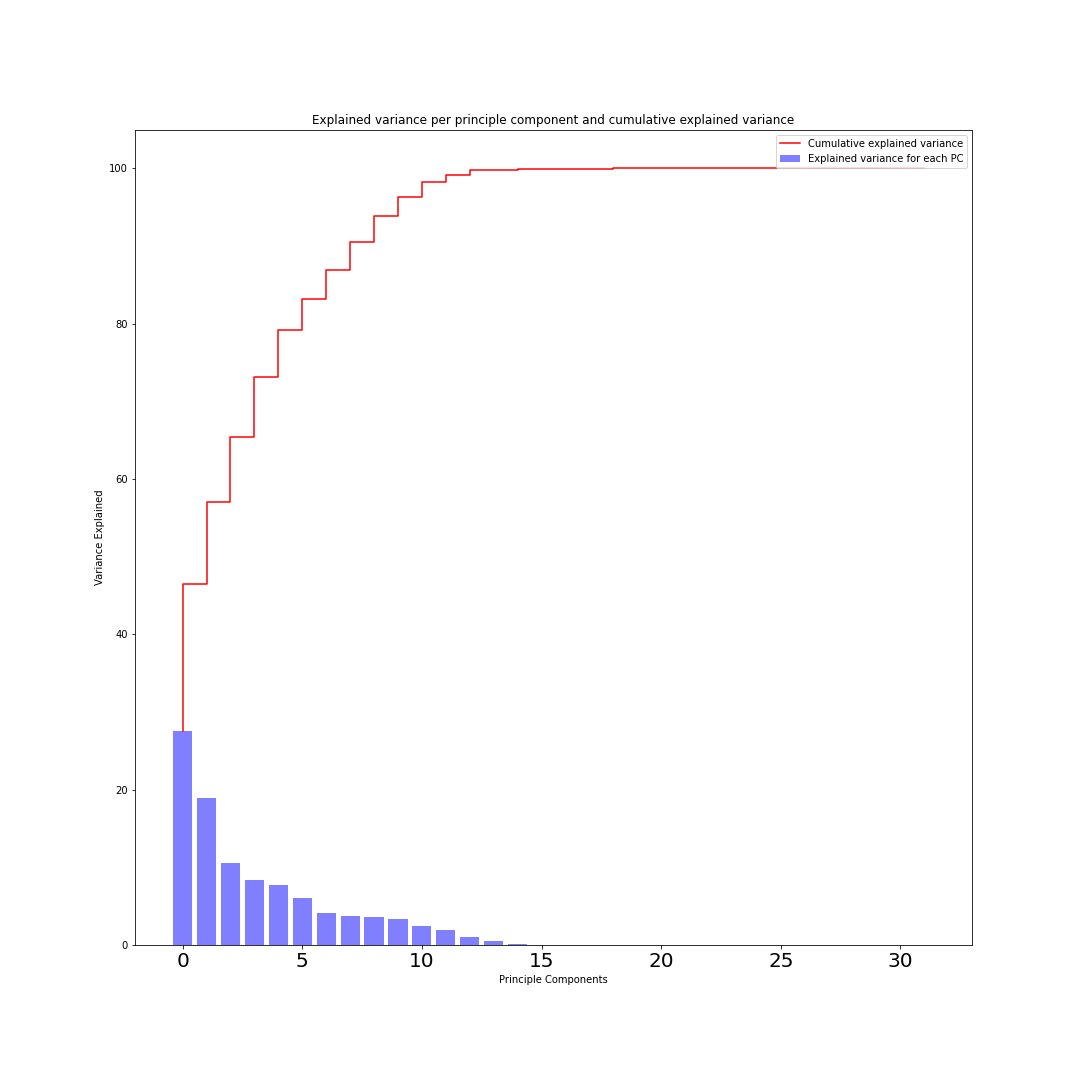
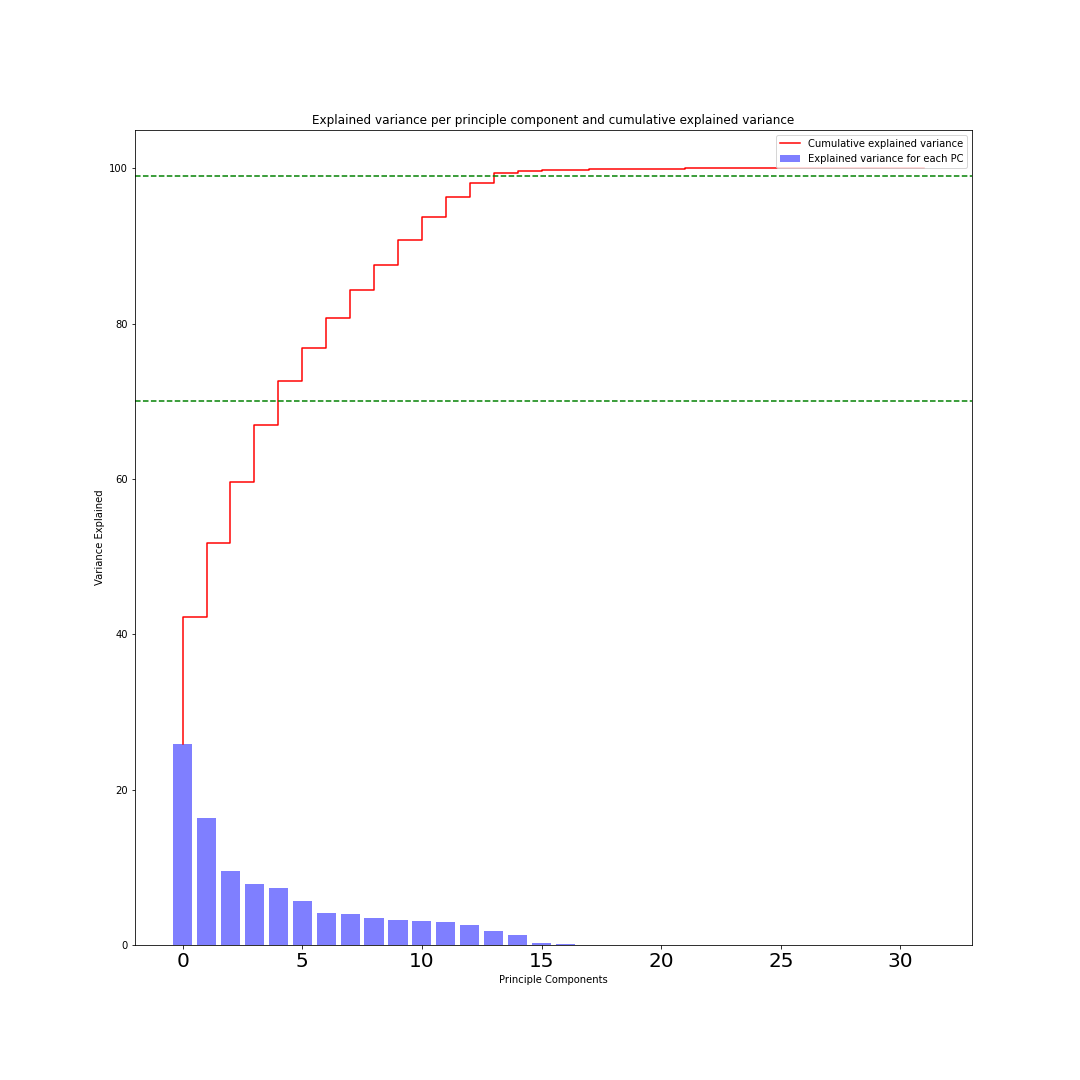
Var plots erin gezet, en variance bij plot labels toegevoegd

diff --git a/PCA (week 2&3)/AssignmentPCA.py b/PCA (week 2&3)/AssignmentPCA.py
@@ -366,7 +366,9 @@ class PCA:
         eig_vecs : Array
             Eigenvectors of the covariance matrix
             
-        cum_var_exp : 
+        cum_var_exp : list
+            List of the cumulative explained variance, with index 0
+            corresponding to the CMA of PC 1, index 1 of PC2, etc.
             
         """
         # Use the NumPy method to extract eigenvalues and eigenvectors
@@ -460,8 +462,8 @@ class PCA_plot():
                   label = str(self.targets[2]))
        
         plt.legend(loc='upper left')        
-        plt.xlabel('Principal Component 1')
-        plt.ylabel('Principal Component 2')
+        plt.xlabel(f'Principal Component 1 -- {self.var_exp[0]:.2f}% variance')
+        plt.ylabel(f'Principal Component 2 -- {self.var_exp[1]:.2f}% variance')
         plt.show()
     
     
@@ -497,9 +499,9 @@ class PCA_plot():
                     label = str(self.targets[2])) 
         
         ax.legend(loc='upper left')        
-        ax.set_xlabel('Principal Component 1')
-        ax.set_ylabel('Principal Component 2')
-        ax.set_zlabel('Principal Component 3')
+        ax.set_xlabel('Principal Component 1 -- {self.var_exp[0]:.2f}% variance')
+        ax.set_ylabel('Principal Component 2 -- {self.var_exp[1]:.2f}% variance')
+        ax.set_zlabel('Principal Component 3 -- {self.var_exp[2]:.2f}% variance')
         plt.show()
     
     def var_plot(self, var_exp, cum_var_exp, eigen_vals):
@@ -546,6 +548,9 @@ class PCA_plot():
         plt.step(range(len(self.cum_var_exp)), 
                  self.cum_var_exp, color='red',
                  label='Cumulative explained variance')
+        # Plot horizontal line at 70% and 99% expl. variance
+        plt.axhline(y = 70, color = 'g', linestyle = 'dashed')
+        plt.axhline(y = 99, color = 'g', linestyle = 'dashed')
         plt.xticks(fontsize=20)
         plt.legend(loc='best')
         plt.savefig('Varplot.png')
@@ -563,8 +568,8 @@ class PCA_plot():
         plt.savefig(plot_name)
     
     
-    def loading_plots_all_targets(variable_names_list, eig_vals_real, eig_vecs_real, PC=1, 
-                                    n_vars='All'):
+    def loading_plots_all_targets(variable_names_list, eig_vals_real, 
+                                  eig_vecs_real, PC=1, n_vars='All'):
         """
         Generates a loading plot of a predefined number of variables with
         the largest loading for a principle component of choice. Loadings 
@@ -600,16 +605,13 @@ class PCA_plot():
         Loading plot of a predefined number of variables with the largest
         loading for a principal component of choice.
         """
-        #print(f'\n{PC = }\n')
         # Select the correct data:
-        # print(f'{len(variable_names_list) = }') 
-        #print(f'{len(eig_vals_real) = }') 
 
         # Make a list of (eigenvalue, eigenvector) tuples and sort the 
         # (eigenvalue, eigenvector) tuples from high to low
-        
+        print(f'{eig_vals_real = }')
         # Make a list of (eigenvalue, eigenvector) tuples
-        eig_val_vec_list = [(np.abs(eig_vals_real[i]), eig_vecs_real[:,i]) 
+        eig_val_vec_list = [(abs(eig_vals_real[i]), eig_vecs_real[:,i]) 
                     for i in range(len(eig_vals_real))]
         # Sort the (eigenvalue, eigenvector) tuples from high to low
         eig_val_vec_list.sort(key=lambda tup: tup[0], reverse=True)
@@ -638,8 +640,6 @@ class PCA_plot():
         # the loadings of these variables (Y axis). Their indices match.
         variable_names_list, loadings = zip(*selected)
         
-        print(f'{variable_names_list = }\n')
-        print(f'{loadings = }\n')
         # Make a bar graph: configuration
         fig = plt.figure(figsize=(10,5), dpi=150)
         ax = fig.add_axes([0,0,1,1])

diff --git a/PCA (week 2&3)/main.py b/PCA (week 2&3)/main.py
@@ -26,37 +26,40 @@ plot = Average(df_target_full,columns_of_interest)
 cum_mov_avg_dict = plot.cumulative_moving_average()
 #plot.plot_cumulative_moving_average_alternative()
 
-# (f) Testing Covariance------------------------------------------------
+# (f) Covariance------------------------------------------------
 lst1 = df['nHet'].values.tolist()
 lst2 = df['SlogP'].values.tolist()
 pca = PCA(df,'ppar')
 covariance_two_lists = pca.calculate_covariance(lst1,lst2,bias=True)
 covariance_test_two_lists = np.cov(lst1,lst2) # Give the correct output
 
-# (g) Testing Covariance matrix with scaled values ---------------------
+# (g) Covariance matrix with scaled values ---------------------
 df_target_only_descriptors_scaled = pca.df_target_only_descriptors_scaled
 df_target_covariance_matrix = pca.calculate_covariance_matrix()
 
-# (h) Testing PCA ------------------------------------------------------
+# (h) PCA ------------------------------------------------------
 pca_eigval, pca_eigvec, pca_var_exp, pca_cum_var_exp = pca.perform_PCA()
 
-# (i) Testing plotting -------------------------------------------------
-# pca_plot = PCA_plot(df)
-#pca_plot.PCA_plot_2D()
+# (i) Plotting -------------------------------------------------
+pca_plot = PCA_plot(df)
+pca_plot.PCA_plot_2D()
 #pca_plot.PCA_plot_3D()
 
-# (j) Testing loadings -----------------------------------------------
-
-# # Test for all targets
+# (j) Loading plots-----------------------------------------------
+# Test for all targets
+# variable_names_list = list(Molecule(df,"ppar").descriptors)
 # n_vars = 5
 # n_PCs = 3
 # for PC in range(n_PCs):
-#     pca_plot.loading_plots_all_targets(Molecule(df, 'ppar').descriptors, 
-#                   0,
-#                   PC = PC+1, 
-#                   n_vars = n_vars)
-
-# Test per target
+#     pca_plot.loading_plots_all_targets(
+#         variable_names_list = variable_names_list,
+#         eig_vals_real = pca_eigval, 
+#         eig_vecs_real = pca_eigvec,
+#         PC=PC+1,
+#         n_vars = n_vars
+#         )
+        
+## Per target
 # n_vars = 'All'
 # n_PCs = 3
 # for target in ['ppar', 'thrombin', 'cox2']:
@@ -68,17 +71,11 @@ pca_eigval, pca_eigvec, pca_var_exp, pca_cum_var_exp = pca.perform_PCA()
 #                       PC = PC+1, 
 #                       n_vars = n_vars)
     
-# Testing var plot & scree plot ----------------------------------------
-PCA_plot(df).var_plot(pca_var_exp,
-                      pca_cum_var_exp,
-                      pca_eigval
-                      )
-
-
-
-
-
-
+## Var plot & scree plot ----------------------------------------
+# PCA_plot(df).var_plot(pca_var_exp,
+#                       pca_cum_var_exp,
+#                       pca_eigval
+#                       )
 
 
 

diff --git a/PCA (week 2&3)/Molecule.py b/PCA (week 2&3)/Molecule.py
@@ -50,7 +50,8 @@ class Molecule:
     def __init__(self, df, target):
         self.target = target
         self.df = df
-        self.df_target = df[(df['Target'] == target)]
+        # self.df_target = df[(df['Target'] == target)]
+        self.df_target = df
         self.columns = len(df.columns) # number of columns
         
         
